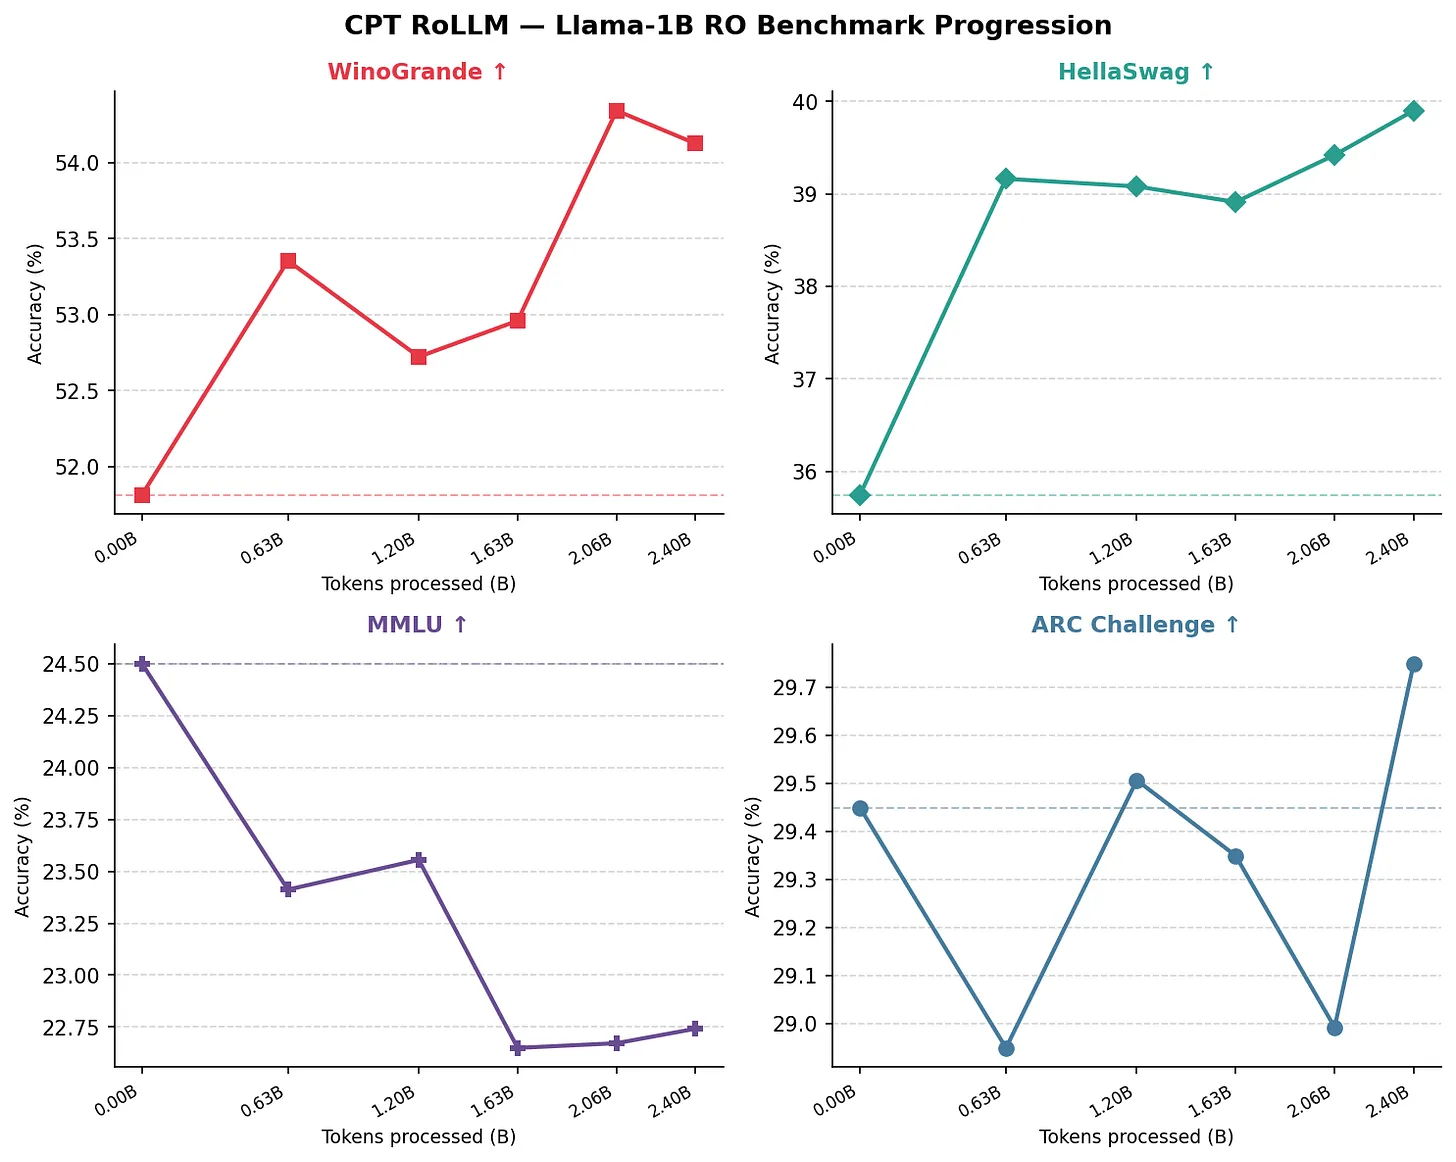
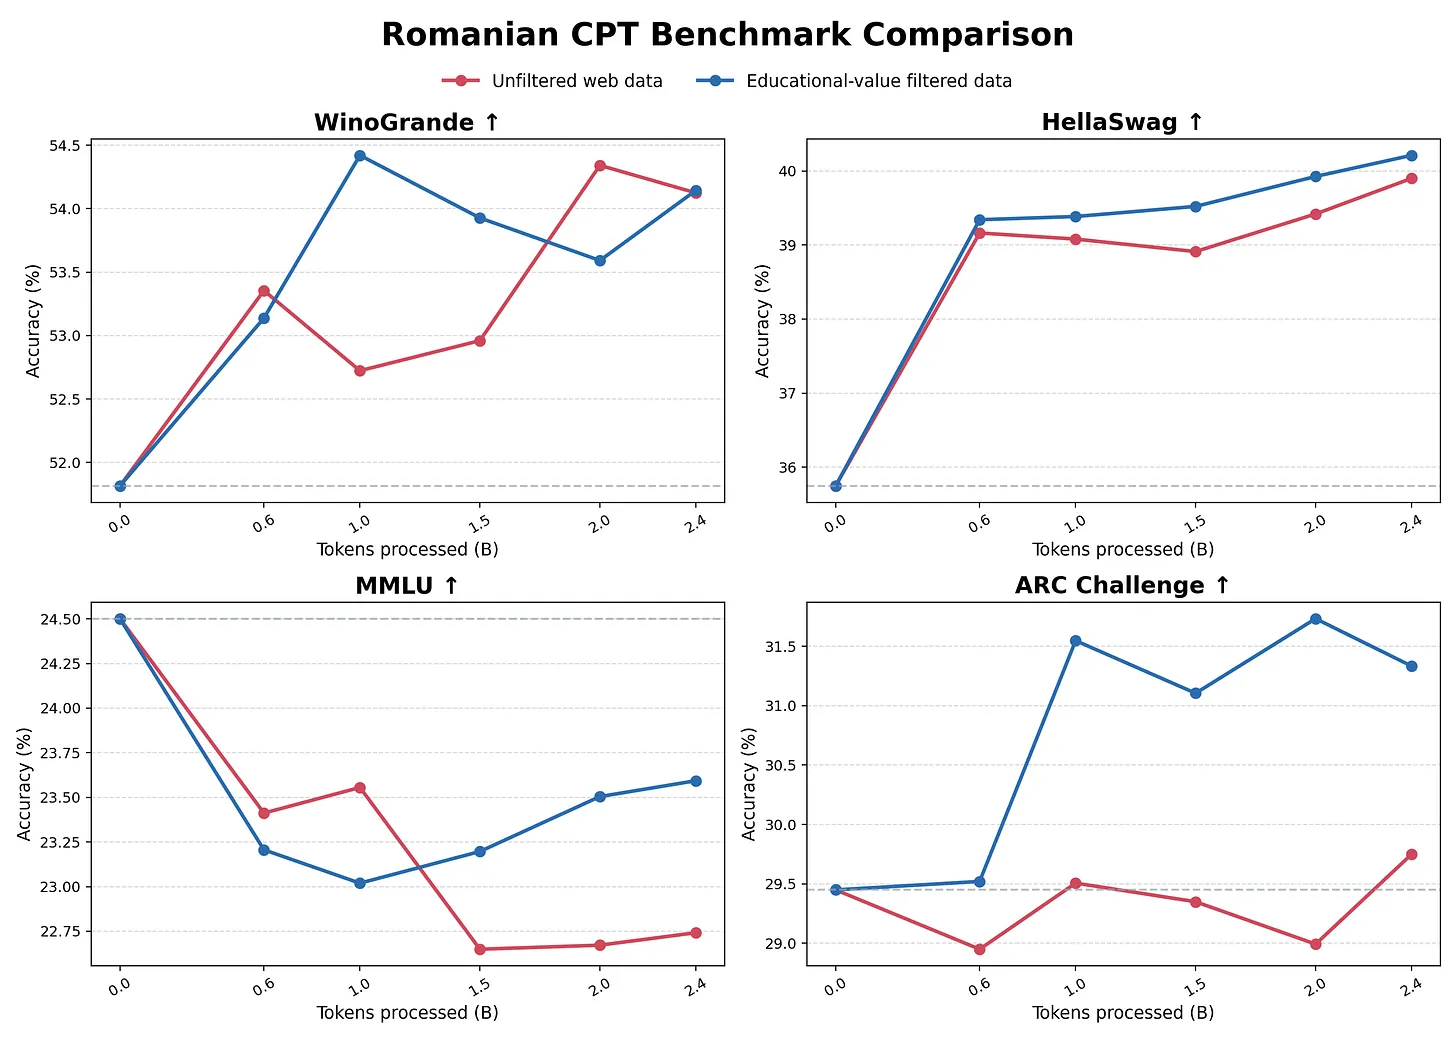
- update readme + clear scripts

diff --git a/continual_pretrain/scripts/fetch_fineweb_score4.py b/continual_pretrain/scripts/fetch_fineweb_score4.py
@@ -1,0 +1,39 @@
+import json
+import urllib.request
+from pathlib import Path
+from dotenv import load_dotenv
+import os
+
+load_dotenv(Path(__file__).parent.parent / ".env")
+HF_TOKEN = os.environ["HF_TOKEN"]
+
+import duckdb
+
+DATASET = "OpenLLM-Ro/fineweb2-ro-bert"
+OUTPUT = Path(__file__).parent.parent / "data" / "fineweb2_ro_score4.parquet"
+OUTPUT.parent.mkdir(parents=True, exist_ok=True)
+
+print("Fetching parquet file URLs...")
+resp = urllib.request.urlopen(
+    f"https://datasets-server.huggingface.co/parquet?dataset={DATASET}"
+)
+urls = [f["url"] for f in json.load(resp)["parquet_files"]]
+print(f"Found {len(urls)} parquet files")
+
+con = duckdb.connect()
+con.execute("INSTALL httpfs; LOAD httpfs;")
+con.execute(f"CREATE SECRET (TYPE HTTP, BEARER_TOKEN '{HF_TOKEN}');")
+con.execute("SET threads = 8;")
+con.execute("SET memory_limit='8GB';")
+con.execute("SET temp_directory='/tmp/duckdb_spill';")
+
+print("Querying score=4 rows across all files (this will take a while)...")
+con.execute(f"""
+COPY (
+    SELECT * FROM read_parquet({urls})
+    WHERE int_score = 4
+) TO '{OUTPUT}' (FORMAT PARQUET, COMPRESSION ZSTD)
+""")
+
+result = con.execute(f"SELECT COUNT(*) FROM read_parquet('{OUTPUT}')").fetchone()
+print(f"Done. Saved {result[0]:,} rows to {OUTPUT}")

diff --git a/continual_pretrain/milestone_trainer.py b/continual_pretrain/milestone_trainer.py
@@ -147,11 +147,6 @@ class MilestoneTrainerMixin:
         full_results = {}
         metrics_dict = {}
 
-        # Clear GPU cache before evaluation to free fragmented memory
-        logger.info("🧹 Clearing GPU cache before evaluation...")
-        torch.cuda.empty_cache()
-        torch.cuda.synchronize()
-
         logger.info("🔧 Wrapping model for lm-eval...")
         lm_eval_model = HFLM(
             pretrained=self.model,

diff --git a/continual_pretrain/train_utils.py b/continual_pretrain/train_utils.py
@@ -88,6 +88,8 @@ def load_single_dataset(
             ds = raw[split] if split in raw else raw[list(raw.keys())[0]]
         else:
             ds = raw
+    elif name.endswith(".parquet"):
+        ds = load_dataset("parquet", data_files=name, split="train")
     else:
         ds = load_dataset(name, split=split)
 

diff --git a/readme.md b/readme.md
@@ -1,6 +1,6 @@
 # RoLLM-CPT: Continual Pretraining of Llama-3.2-1B for Romanian
 
-Adapts Llama-3.2-1B to Romanian through continual pretraining (CPT) with QLoRA, using a milestone-based training loop that evaluates on Romanian benchmarks at each token checkpoint.
+Adapts Llama-3.2-1B to Romanian through continual pretraining (CPT) with QLoRA, using a milestone-based training loop that evaluates Romanian and English signals at token checkpoints. The repo covers both recipe-selection experiments and two full 2.4B-token runs comparing unfiltered Romanian web data against its educational-value-filtered counterpart.
 
 This repo accompanies the Substack post: **[Optimizing Romanian CPT on a Single GPU](#)** *(link coming soon)*
 
@@ -16,7 +16,7 @@ This repo accompanies the Substack post: **[Optimizing Romanian CPT on a Single 
 | Data mix | 80% Romanian / 20% English is optimal. 100% Romanian causes measurable English forgetting with no downstream gain. |
 | LoRA rank | r=64 is Pareto-optimal over r=128: same loss, 4% faster, less VRAM. r=256 shows instability. |
 | Embeddings | Training embed_tokens and lm_head (full, not LoRA) improves Romanian perplexity with no English regression. |
-| Full 2.4B run | RoHellaSwag and RoWinoGrande improve by up to 10%. ARC and MMLU unchanged — reflects content gap in Romanian web data, not training failure. |
+| Full 2.4B runs | Both runs improve Romanian language understanding, with RoHellaSwag and RoWinoGrande gaining up to 10%. The filtered corpus performs better overall, especially on RoARC, while reducing but not eliminating the RoMMLU regression. |
 
 ![Benchmark Progression](images/benchmark_progression.png)
 
@@ -63,7 +63,7 @@ Full config in `continual_pretrain/configs/train_model.yaml`.
 
 ## Experiments
 
-Each script reproduces one ablation from the post. Run from `continual_pretrain/`:
+Each script reproduces one controlled comparison or full-run utility from the post. Run from `continual_pretrain/`:
 
 ```bash
 cd continual_pretrain
@@ -78,9 +78,8 @@ bash scripts/run_packing_comparison.sh
 | `run_embedding_comparison.sh` | Training embedding layers vs freezing them |
 | `run_embedding_lr_sweep.sh` | Embedding LR multiplier sweep (1x, 2x, 5x, 10x base LR) |
 | `run_hyperparam_sweep.sh` | Gradient accumulation sweep at fixed effective batch size |
-| `run_full_cpt.sh` | Full 2.4B token training run with final recipe |
+| `run_full_cpt.sh` | Full 2.4B token training run with the locked recipe (swap Romanian corpus to compare unfiltered vs filtered) |
 
----
 
 ## Evaluation
 
